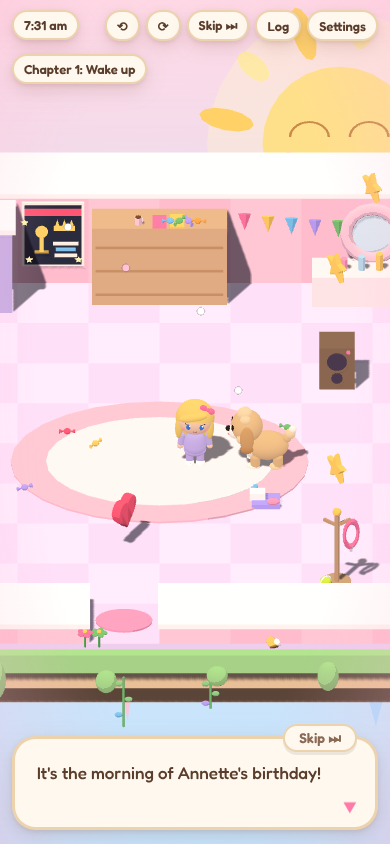
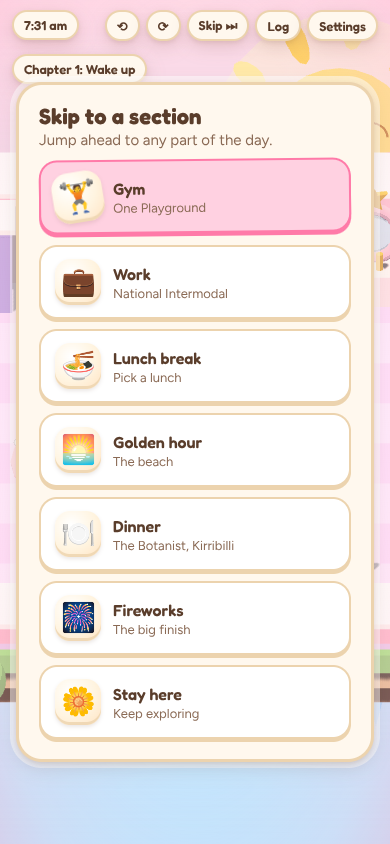
feat(v2): Skip opens a section list
Pressing Skip while walking around now lists every section still ahead
(gym, work, lunch, golden hour, dinner, fireworks; the weekend has its
own list), so you can jump several sections at once. Sections jumped
over are marked finished so the story still makes sense.

Claude-Session: https://claude.ai/code/session_01B3Vzwri1qVRYoc2bcu2UC1

diff --git a/v2/index.html b/v2/index.html
@@ -3723,7 +3723,7 @@ Object.assign(QA_EXTRA, {
    FAST SKIP: one button (HUD "Skip", or Tab) that always moves things along.
    - talking: skips the whole conversation, not just one line
    - a mini-game, battle or drive: finishes it with a decent result
-   - walking around a place: offers to jump to the next section
+   - walking around a place: opens the section list, to jump to any section still ahead
    ========================================================= */
 // where each place skips to: [label for the prompt, what to set and load]
 const SKIP_TO = {
@@ -3741,6 +3741,40 @@ const SKIP_TO = {
   thirroul: ['the memories card', () => holidayEnd()], portmac: ['the memories card', () => holidayEnd()]
 };
 ICONS.unshift([/^skip ahead/i, '⏭', 'walk'], [/^stay here/i, '🌼', 'walk']);
+// The section list: Skip while walking around shows every section still ahead, so you can jump to any of them.
+// Each entry: [map or scene id, label, blurb, done() marks this section finished, go() opens it]
+const SECTIONS = {
+  day: [
+    ['bedroom', 'Wake up', 'The bedroom, with Luca', () => { F.outfit = F.skincare = F.music = true; }, () => loadMap('bedroom')],
+    ['gym', 'Gym', 'One Playground', () => { F.lifted = F.gymBattle = true; }, () => loadMap('gym')],
+    ['office', 'Work', CONFIG.company, () => { F.sorted = F.officeBattle = true; }, () => loadMap('office')],
+    ['lunch', 'Lunch break', 'Pick a lunch', () => { G.lunch = G.lunch || CONFIG.lunches[0].n; }, () => lunchScene()],
+    ['beach', 'Golden hour', 'The beach', () => {}, () => loadMap('beach')],
+    ['botanist', 'Dinner', CONFIG.dinnerSpot, () => { F.surprise = F.drink = F.dinner = true; }, () => loadMap('botanist')],
+    ['finale', 'Fireworks', 'The big finish', () => {}, () => finale()]
+  ],
+  weekend: [
+    ['baths', 'Morning swim', 'Greenwich Baths', () => { F.wkBaths = true; }, () => loadMap('baths')],
+    ['aldi', 'ALDI run', 'Top Ryde', () => { F.wkGroceries = true; }, () => loadMap('aldi')],
+    ['park', 'Dog park', 'Fetch with Luca', () => { F.wkFetch = true; }, () => loadMap('park')],
+    ['home', 'Home', 'Movie, chess or a picnic', () => { F.wkMovie = F.wkActivity = true; }, () => loadMap('home')],
+    ['wnight', 'Night out', 'Dinner or the wine bar', () => {}, () => weekendOut()],
+    ['wend', 'Weekend wrap', 'The memories card', () => {}, () => weekendEnd()]
+  ]
+};
+ICONS.unshift([/^gym$/i, '🏋', 'walk'], [/^work$/i, '💼', 'walk'], [/^lunch break$/i, '🍜', 'walk'], [/^golden hour$/i, '🌅', 'walk'], [/^dinner$/i, '🍽', 'walk'], [/^fireworks$/i, '🎆', 'walk'],
+  [/^aldi run$/i, '🛒', 'walk'], [/^dog park$/i, '🎾', 'walk'], [/^home$/i, '🏡', 'walk'], [/^night out$/i, '🌙', 'walk'], [/^weekend wrap$/i, '📸', 'walk']);
+function sectionMenu() {
+  const list = SECTIONS[G.campaign || 'day'], here = list ? list.findIndex(s => s[0] === G.mapId) : -1;
+  if (here < 0) return false;
+  const items = list.slice(here + 1).map((s, i) => ({ n: s[1], d: s[2], j: here + 1 + i, quick: true })).concat([{ n: 'Stay here', d: 'Keep exploring', quick: true }]);
+  pickMenu('Skip to a section', 'Jump ahead to any part of the ' + (G.campaign === 'weekend' ? 'weekend' : 'day') + '.', items, d => {
+    if (d.j == null) return;
+    G.mode = 'busy'; sfx('whoosh');
+    fade(() => { for (let i = here; i < d.j; i++) list[i][3](); list[d.j][4](); });
+  });
+  return true;
+}
 function skipTalk() {
   // conversations often chain into the next one: keep going until something other than talk is on screen
   for (let i = 0; i < 12 && DLG && !MOMENT; i++) { DLG.q.length = 0; DLG.typing = false; nextLine(); }
@@ -3761,6 +3795,7 @@ function fastSkip() {
   if (G.scene === 'snow' && typeof SB !== 'undefined' && SB && !SB.done) { SB.t = SB.dur; return sfx('whoosh'); }
   if (G.scene === 'lunch') { clearUI(); G.lunch = G.lunch || CONFIG.lunches[0].n; return fade(() => loadMap('beach')); }
   if (G.scene === 'wnight' && G.mode !== 'busy') { clearUI(); return fade(weekendEnd); }
+  if (G.scene === 'map' && G.mode === 'map' && sectionMenu()) return;
   if (G.scene === 'map' && G.mode === 'map' && SKIP_TO[G.mapId]) {
     const [to, go] = SKIP_TO[G.mapId];
     return pickMenu('Skip ahead?', 'Jump straight to ' + to + '.', [{ n: 'Skip ahead', d: 'On to ' + to, k: 1, quick: true }, { n: 'Stay here', d: 'Keep exploring', quick: true }], d => { if (d.k) { G.mode = 'busy'; sfx('whoosh'); fade(go); } });
@@ -3769,7 +3804,7 @@ function fastSkip() {
 }
 $('#skipBtn').onclick = fastSkip;
 addEventListener('keydown', e => { if (e.code === 'Tab' && !e.repeat && !$('#hud').classList.contains('hidden')) { e.preventDefault(); fastSkip(); } });
-QA_EXTRA.skipmenu = () => { loadMap('gym'); setTimeout(() => { skipTalk(); fastSkip(); }, 1100); };
+QA_EXTRA.skipmenu = () => { G.campaign = 'day'; loadMap('bedroom'); setTimeout(() => { skipTalk(); fastSkip(); }, 1100); };
 
 /* ===== 09-holiday.js ===== */
 /* =========================================================

diff --git a/v2/src/09-fastskip.js b/v2/src/09-fastskip.js
@@ -2,7 +2,7 @@
    FAST SKIP: one button (HUD "Skip", or Tab) that always moves things along.
    - talking: skips the whole conversation, not just one line
    - a mini-game, battle or drive: finishes it with a decent result
-   - walking around a place: offers to jump to the next section
+   - walking around a place: opens the section list, to jump to any section still ahead
    ========================================================= */
 // where each place skips to: [label for the prompt, what to set and load]
 const SKIP_TO = {
@@ -20,6 +20,40 @@ const SKIP_TO = {
   thirroul: ['the memories card', () => holidayEnd()], portmac: ['the memories card', () => holidayEnd()]
 };
 ICONS.unshift([/^skip ahead/i, '⏭', 'walk'], [/^stay here/i, '🌼', 'walk']);
+// The section list: Skip while walking around shows every section still ahead, so you can jump to any of them.
+// Each entry: [map or scene id, label, blurb, done() marks this section finished, go() opens it]
+const SECTIONS = {
+  day: [
+    ['bedroom', 'Wake up', 'The bedroom, with Luca', () => { F.outfit = F.skincare = F.music = true; }, () => loadMap('bedroom')],
+    ['gym', 'Gym', 'One Playground', () => { F.lifted = F.gymBattle = true; }, () => loadMap('gym')],
+    ['office', 'Work', CONFIG.company, () => { F.sorted = F.officeBattle = true; }, () => loadMap('office')],
+    ['lunch', 'Lunch break', 'Pick a lunch', () => { G.lunch = G.lunch || CONFIG.lunches[0].n; }, () => lunchScene()],
+    ['beach', 'Golden hour', 'The beach', () => {}, () => loadMap('beach')],
+    ['botanist', 'Dinner', CONFIG.dinnerSpot, () => { F.surprise = F.drink = F.dinner = true; }, () => loadMap('botanist')],
+    ['finale', 'Fireworks', 'The big finish', () => {}, () => finale()]
+  ],
+  weekend: [
+    ['baths', 'Morning swim', 'Greenwich Baths', () => { F.wkBaths = true; }, () => loadMap('baths')],
+    ['aldi', 'ALDI run', 'Top Ryde', () => { F.wkGroceries = true; }, () => loadMap('aldi')],
+    ['park', 'Dog park', 'Fetch with Luca', () => { F.wkFetch = true; }, () => loadMap('park')],
+    ['home', 'Home', 'Movie, chess or a picnic', () => { F.wkMovie = F.wkActivity = true; }, () => loadMap('home')],
+    ['wnight', 'Night out', 'Dinner or the wine bar', () => {}, () => weekendOut()],
+    ['wend', 'Weekend wrap', 'The memories card', () => {}, () => weekendEnd()]
+  ]
+};
+ICONS.unshift([/^gym$/i, '🏋', 'walk'], [/^work$/i, '💼', 'walk'], [/^lunch break$/i, '🍜', 'walk'], [/^golden hour$/i, '🌅', 'walk'], [/^dinner$/i, '🍽', 'walk'], [/^fireworks$/i, '🎆', 'walk'],
+  [/^aldi run$/i, '🛒', 'walk'], [/^dog park$/i, '🎾', 'walk'], [/^home$/i, '🏡', 'walk'], [/^night out$/i, '🌙', 'walk'], [/^weekend wrap$/i, '📸', 'walk']);
+function sectionMenu() {
+  const list = SECTIONS[G.campaign || 'day'], here = list ? list.findIndex(s => s[0] === G.mapId) : -1;
+  if (here < 0) return false;
+  const items = list.slice(here + 1).map((s, i) => ({ n: s[1], d: s[2], j: here + 1 + i, quick: true })).concat([{ n: 'Stay here', d: 'Keep exploring', quick: true }]);
+  pickMenu('Skip to a section', 'Jump ahead to any part of the ' + (G.campaign === 'weekend' ? 'weekend' : 'day') + '.', items, d => {
+    if (d.j == null) return;
+    G.mode = 'busy'; sfx('whoosh');
+    fade(() => { for (let i = here; i < d.j; i++) list[i][3](); list[d.j][4](); });
+  });
+  return true;
+}
 function skipTalk() {
   // conversations often chain into the next one: keep going until something other than talk is on screen
   for (let i = 0; i < 12 && DLG && !MOMENT; i++) { DLG.q.length = 0; DLG.typing = false; nextLine(); }
@@ -40,6 +74,7 @@ function fastSkip() {
   if (G.scene === 'snow' && typeof SB !== 'undefined' && SB && !SB.done) { SB.t = SB.dur; return sfx('whoosh'); }
   if (G.scene === 'lunch') { clearUI(); G.lunch = G.lunch || CONFIG.lunches[0].n; return fade(() => loadMap('beach')); }
   if (G.scene === 'wnight' && G.mode !== 'busy') { clearUI(); return fade(weekendEnd); }
+  if (G.scene === 'map' && G.mode === 'map' && sectionMenu()) return;
   if (G.scene === 'map' && G.mode === 'map' && SKIP_TO[G.mapId]) {
     const [to, go] = SKIP_TO[G.mapId];
     return pickMenu('Skip ahead?', 'Jump straight to ' + to + '.', [{ n: 'Skip ahead', d: 'On to ' + to, k: 1, quick: true }, { n: 'Stay here', d: 'Keep exploring', quick: true }], d => { if (d.k) { G.mode = 'busy'; sfx('whoosh'); fade(go); } });
@@ -48,4 +83,4 @@ function fastSkip() {
 }
 $('#skipBtn').onclick = fastSkip;
 addEventListener('keydown', e => { if (e.code === 'Tab' && !e.repeat && !$('#hud').classList.contains('hidden')) { e.preventDefault(); fastSkip(); } });
-QA_EXTRA.skipmenu = () => { loadMap('gym'); setTimeout(() => { skipTalk(); fastSkip(); }, 1100); };
+QA_EXTRA.skipmenu = () => { G.campaign = 'day'; loadMap('bedroom'); setTimeout(() => { skipTalk(); fastSkip(); }, 1100); };

diff --git a/v2/tools/play-skip.js b/v2/tools/play-skip.js
@@ -13,7 +13,7 @@ const SCRIPT = `(async () => {
   const waitFor = async (fn, ms) => { for (let i = 0; i < (ms || 30000) / 100; i++) { if (fn()) return true; await sleep(100); } return false; };
   const fading = () => document.querySelector('#fade').classList.contains('on');
   // press Skip (the real HUD button) until we reach the wanted place, answering "Skip ahead" when asked
-  const skipTo = async (name, fn) => { for (let i = 0; i < 300 && !fn(); i++) { const b = btn(/^Skip ahead/); if (b) b.click(); else if (!fading()) document.querySelector('#skipBtn').click(); await sleep(250); } if (!fn()) throw new Error('skip never reached ' + name + ' (at ' + G.scene + '/' + G.mapId + '/' + G.mode + ')'); step(name); };
+  const skipTo = async (name, fn) => { for (let i = 0; i < 300 && !fn(); i++) { const b = btn(/^Skip ahead/) || (btn(/^Stay here/) && document.querySelector('#ui .opt')); if (b) b.click(); else if (!fading()) document.querySelector('#skipBtn').click(); await sleep(250); } if (!fn()) throw new Error('skip never reached ' + name + ' (at ' + G.scene + '/' + G.mapId + '/' + G.mode + ')'); step(name); };
   const at = id => () => G.scene === 'map' && G.mapId === id && G.mode !== 'busy' && !fading();
   step('title'); btn(/Start the day|New day/).click(); await waitFor(at('bedroom'));
   // a conversation skips in one press
@@ -23,7 +23,10 @@ const SCRIPT = `(async () => {
   liftGame(); await sleep(300); await skipTo('lift and battle skipped', () => F.gymBattle && !G.b && !G.lift);
   for (const [n, f] of [['office', at('office')], ['lunch', () => G.scene === 'lunch'], ['beach', at('beach')], ['botanist', at('botanist')], ['finale', () => G.scene === 'finale']]) await skipTo(n, f);
   await sleep(600); btn(/Roll credits/).click(); await sleep(600); if (G.scene !== 'credits') throw new Error('no credits');
-  step('weekend'); btn(/Play the weekend/).click(); await waitFor(at('baths'));
+  // the section list jumps more than one section at once
+  step('new day'); fade(startGame); await waitFor(at('bedroom')); for (let i = 0; i < 60 && !btn(/^Golden hour/); i++) { document.querySelector('#skipBtn').click(); await sleep(250); } if (!btn(/^Gym/) || !btn(/^Fireworks/)) throw new Error('section list incomplete'); btn(/^Golden hour/).click(); await waitFor(at('beach')); if (G.mapId !== 'beach' || !F.gymBattle || !F.officeBattle || !G.lunch) throw new Error('jump to beach left sections unfinished'); step('jumped bedroom to beach');
+  fade(titleScreen); await waitFor(() => G.scene === 'title' && !!btn(/Weekend Adventure/)); await sleep(400);
+  step('weekend'); btn(/Weekend Adventure/).click(); await waitFor(at('baths'));
   for (const [n, f] of [['aldi', at('aldi')], ['park', at('park')], ['home', at('home')], ['night', () => G.scene === 'wnight'], ['weekend end', () => G.scene === 'wend']]) await skipTo(n, f);
   for (const trip of ['Queenstown', 'Hunter Valley', 'Thirroul', 'Port Macquarie']) {
     await sleep(600); fade(startHoliday); await waitFor(() => G.scene === 'hstart' && !!btn(new RegExp(trip))); btn(new RegExp(trip)).click();

diff --git a/v2/README.md b/v2/README.md
@@ -27,7 +27,7 @@ Content lives in `CONFIG.block` at the top of `src/09-block.js` (street names, t
 A sleepy sun, a dozing moon, a rainbow and a hot-air balloon live behind every island (parented to the camera, so they frame any zoom or rotation). Half the clouds are napping. Islands grow toadstools, flowering vines, crystals and a little waterfall. Butterflies loop the grassy islands, petals drift by day, gold dust at golden hour and fireflies at night. Footsteps puff, hearts pulse and the screen has a soft pink edge glow.
 
 ## Controls
-**Skip** (top right, or Tab) always moves things along: it skips a whole conversation, finishes a mini-game, battle or drive with a decent result, or offers to jump to the next section when you are walking around. Every conversation box also has its own Skip button. Skipped side quests and hearts stay unfinished.
+**Skip** (top right, or Tab) always moves things along: it skips a whole conversation, finishes a mini-game, battle or drive with a decent result, or opens the section list when you are walking around, so you can jump to any section still ahead (gym, work, lunch, golden hour, dinner, fireworks; the weekend has its own list). Every conversation box also has its own Skip button. Skipped side quests and hearts stay unfinished.
 
 Arrows/WASD walk, Space/Enter/Z = A, Esc/X = B, Q/E rotate the diorama, B opens the collection log. Tap a spot to walk there, or tap a thing to walk up and use it.
 

diff --git a/CLAUDE.md b/CLAUDE.md
@@ -58,7 +58,7 @@ A three.js diorama remake with its own source tree and build. Read `v2/README.md
 - `09-atmosphere.js`: whimsy (sky friends, butterflies, motes), `sting()` for dramatic beats, and the side-quest registry (`QUESTS`, `questStart`, `questDone`; progress lives in `F.q_<id>`).
 - `09-block.js`: the Edmondson St block map and all side quests. Personal content is in `CONFIG.block`.
 - `09-holiday.js`: the Holiday Pack. Four trips, each under `CONFIG.holiday`: `qt` (Queenstown ski trip, New Zealand), `hv` (Hunter Valley), `bt` (Thirroul beach trip), `pm` (Port Macquarie). `barGame()` is a shared three-round timing bar (whale watch, balloon flight). `G.holiday` holds the trip key and `holidayEnd()` builds the memories card for whichever one it is.
-- `09-fastskip.js`: the Skip button (HUD and Tab). `SKIP_TO` maps each place to the next section; a new map needs an entry there.
+- `09-fastskip.js`: the Skip button (HUD and Tab). `SECTIONS` is the section list Skip opens for the birthday and the weekend; `SKIP_TO` covers places outside that list (the block, the holidays). A new map needs an entry in one of them.
 - Test with `CHROME=<path> node v2/tools/play.js` (also `play-weekend.js`, `play-holiday.js`, `play-skip.js`); they must end with PASS and no console errors.
 - The Luca rule has one more exception in v2: he comes on the optional morning walk around the block.
 

diff --git a/CHANGELOG.md b/CHANGELOG.md
@@ -5,7 +5,7 @@
 Everything here is in `v2/` (the 3D diorama edition). The original pixel game at the repo root is unchanged.
 
 ### Fast skip
-- A Skip button in the top bar (or Tab): skips a whole conversation, finishes a mini-game, battle or drive, or jumps to the next section. Every conversation box has its own Skip too.
+- A Skip button in the top bar (or Tab): skips a whole conversation, finishes a mini-game, battle or drive, or opens a section list to jump to any section still ahead. Every conversation box has its own Skip too.
 
 ### Holiday Pack: Port Macquarie, and more to do on the other trips
 - **Port Macquarie** is a fourth holiday: count five koalas hiding in the gums for the Koala Hospital, catch whale breaches from Tacking Point Lighthouse, paint a rock for the breakwall, then pick an arvo and a dinner. New memories card and two badges (Koala counter, Whale spotter).
